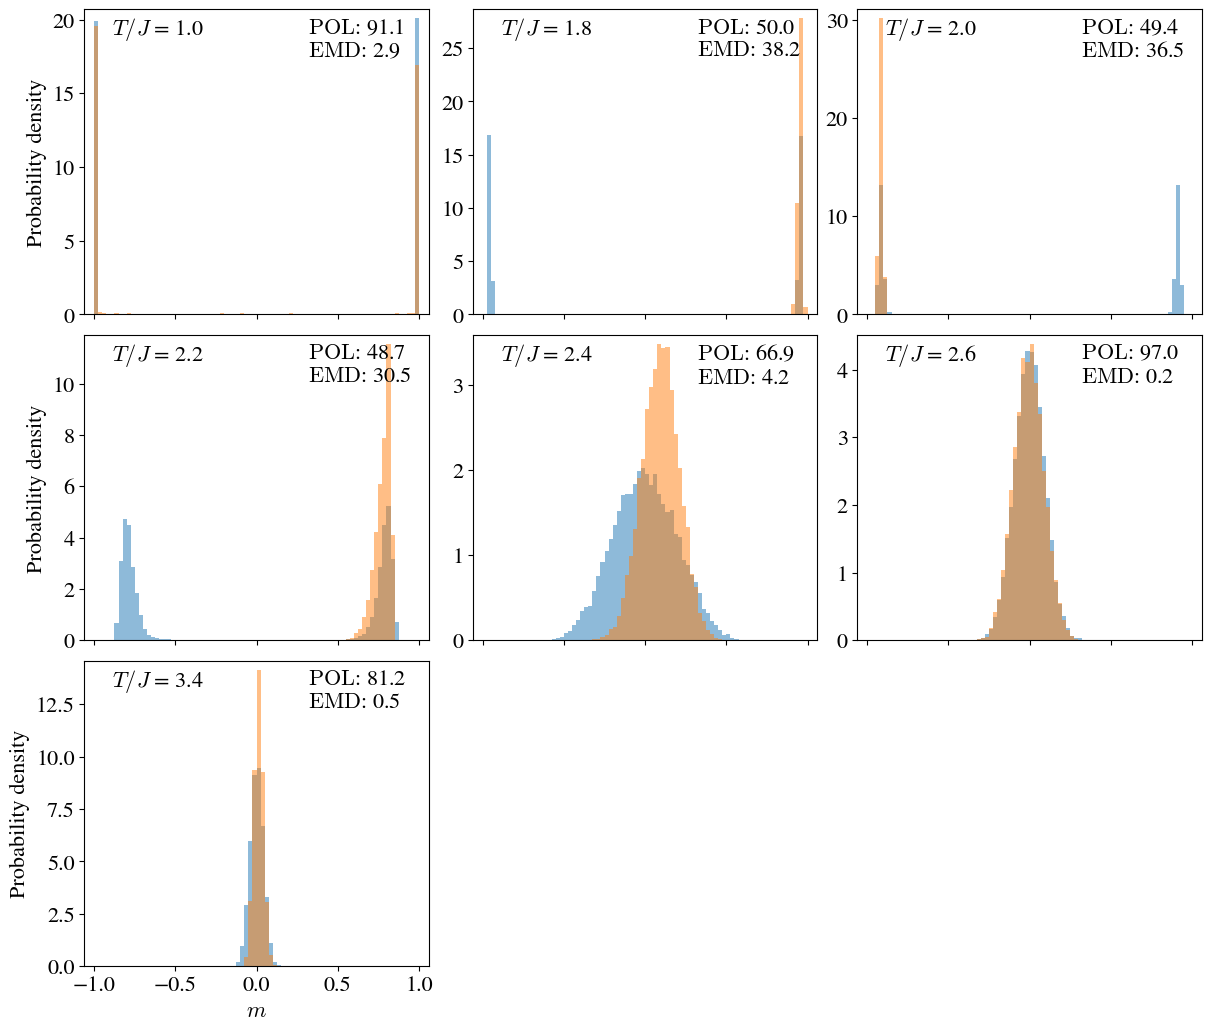
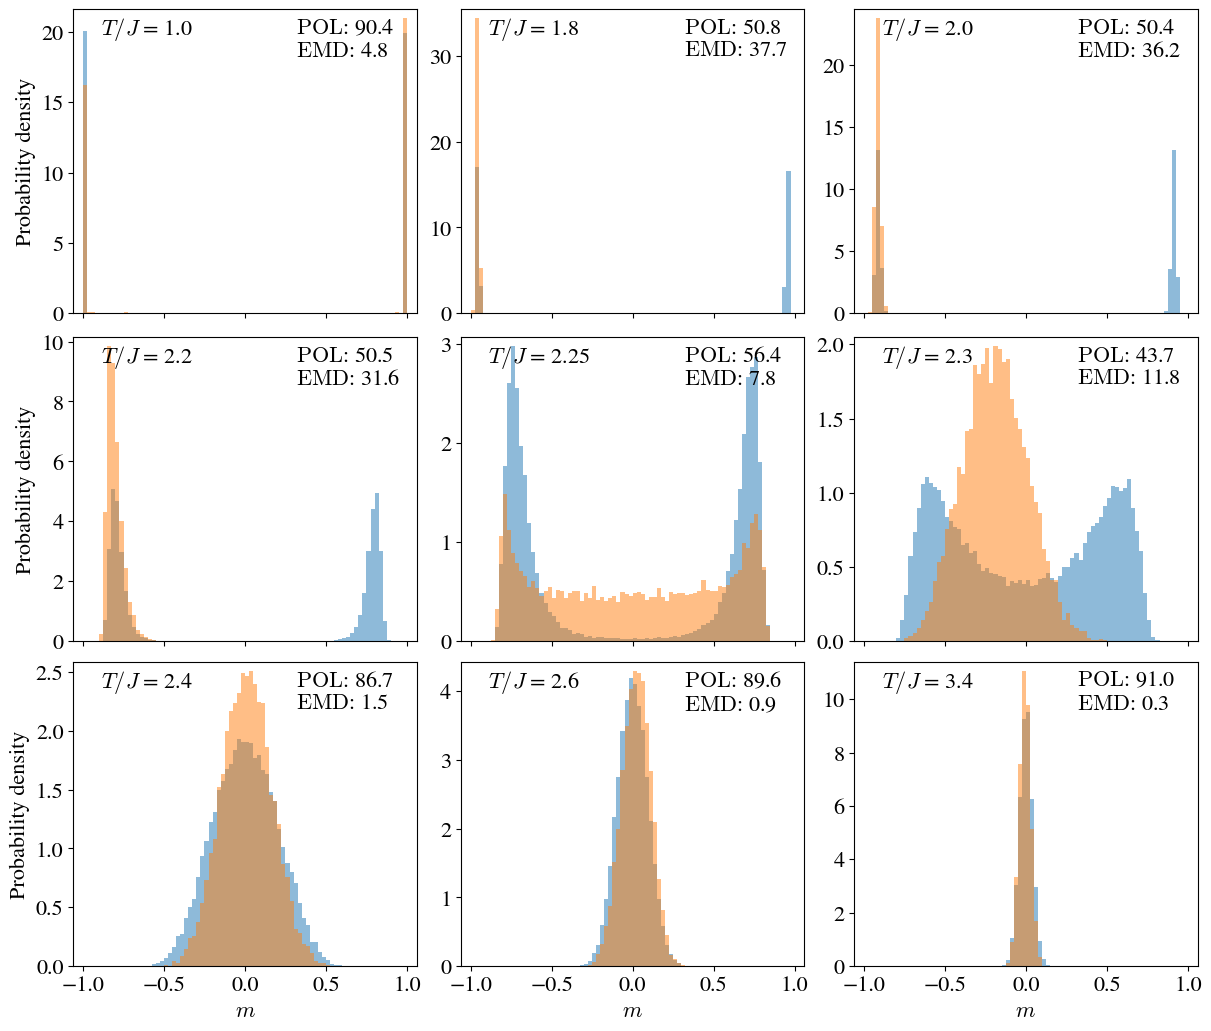
added new eval img

diff --git a/plotting/data_visualization.py b/plotting/data_visualization.py
@@ -29,7 +29,7 @@ def plot_performance_evaluation_hist(med_objs : dh.model_evaluation_data, use_en
     cnt = len(med_objs)
 
     cols = 3
-    rows = (cnt // cols)+1
+    rows = int(np.ceil(cnt / cols))
 
     #--------------------------------
     size=(12, 3.4 * rows) #TODO scale according to count
@@ -66,7 +66,7 @@ def plot_performance_evaluation_hist(med_objs : dh.model_evaluation_data, use_en
             plt.sca(axs[i])
             plt.margins(0.03) 
 
-            te = r"$T/J$ = %.1f" % med.T
+            te = r"$T/J$ = {t}".format(t=med.T)
             args = dict(horizontalalignment='left',verticalalignment='top', transform=plt.gca().transAxes, color="black")#, bbox=box)
             plt.text(0.08, 0.98 , te, args)
             
@@ -129,7 +129,7 @@ def plot_performance_evaluation_phase(med_objs : dh.model_evaluation_data):
     cnt = len(med_objs)
 
     cols = 3
-    rows = (cnt // cols)+1
+    rows = int(np.ceil(cnt / cols))
 
     #--------------------------------
     size=(12, 3.4 * rows) #TODO scale according to count
@@ -182,7 +182,7 @@ def plot_performance_evaluation_phase(med_objs : dh.model_evaluation_data):
             plt.ylim((me.range_eng[0]*off, me.range_eng[1]*off))
 
             #--------------------------------
-            te = r"$T/J$ = %.1f" % med.T
+            te = r"$T/J$ = {t}".format(t=med.T)
             args = dict(horizontalalignment='left',verticalalignment='top', transform=plt.gca().transAxes, color="white")#, bbox=box)
             plt.text(0.08, 0.98 , te, args)
 
@@ -244,9 +244,12 @@ def plot_performance_evaluation_observables(TJs, mpd : dh.model_processed_data):
     title = [r"$\langle |m|\rangle$",  r"$\langle E\rangle$",
              r"$\chi$",                r"$U_2$"]
 
-    labels = [("%0.1f" % x) for x in TJs]
+    #labels = [("%0.1f" % x) for x in TJs]   
     #labels.append(r"$T_c$")
-    ticks = TJs #np.append(TJs, Tc) 
+    #ticks = TJs #np.append(TJs, Tc) 
+    ticks  = [1.0, 1.8, 2.0, 2.2, 2.4, 2.6, 3.4]
+    labels = [("%0.1f" % x) for x in ticks]  
+    
     empty_labels = ["" for x in ticks]
 
     mc_data_list  = [mpd.mAbs  , mpd.energy,   mpd.magSusc,   mpd.binderCu]

diff --git a/models/automatic_training/automatic_training.py b/models/automatic_training/automatic_training.py
@@ -48,11 +48,11 @@ def main() -> int:
     TJs         = np.array([1.0, 1.8, 2.0, 2.2, 2.25, 2.3, 2.4, 2.6, 3.4])
     #TJs = np.array([2.6])
 
-    epochs      = 41
+    epochs      = 52
     amplitude   = 0.7
    
-    plot_period = 2 #2 * epochs -> not needed, so never
-    save_period = 2 #10
+    plot_period = 3 #2 * epochs -> not needed, so never
+    save_period = 3 #10
 
     #---------------------------
     path = os.path.join(os.path.dirname(__file__), "..", "..", "data", "train")
@@ -61,11 +61,12 @@ def main() -> int:
         gan_module = import_gan_module(model_name)
 
         for TJ in TJs:
-            print("[train_model] model_name:", model_name, ", TJ:", TJ)
+            print("[train_model] model_name:", model_name, ", TJ:", TJ, "--------------------------------")
 
             #--------------
-            #load data
+            #load data          
             file_name = "simulation_states_TJ_{TJ}.txt".format(TJ=TJ)
+            print("[train_model] load_spin_data:", file_name)
             dataset = load_spin_data(batch_sizes[model_name], image_size[0], path, name=file_name, amplitude=amplitude)
 
             # train to fixed epoch

diff --git a/plotting/main.py b/plotting/main.py
@@ -16,16 +16,16 @@ def main() -> int:
     model_names = np.array(["Spin_DC_GAN"])
     TJs         = np.array([1.0, 1.8, 2.0, 2.2, 2.25, 2.3, 2.4, 2.6, 3.4])
     
-    epoch_min  = 20
-    epoch_max  = 100
-    epoch_step = 10
+    epoch_min  = 6
+    epoch_max  = 51
+    epoch_step = 3
 
     #data cnt taken from GAN for evaluation
-    images_count = 1000
+    images_count = 10000
 
     #-----------------------------------------------------------------
     #set this for evaluation of a single training run of a model in their folder (not the data folder) -> used for development
-    if 1:
+    if 0:
         single_eval = True     
         TJs         = np.array([2.6])
 
